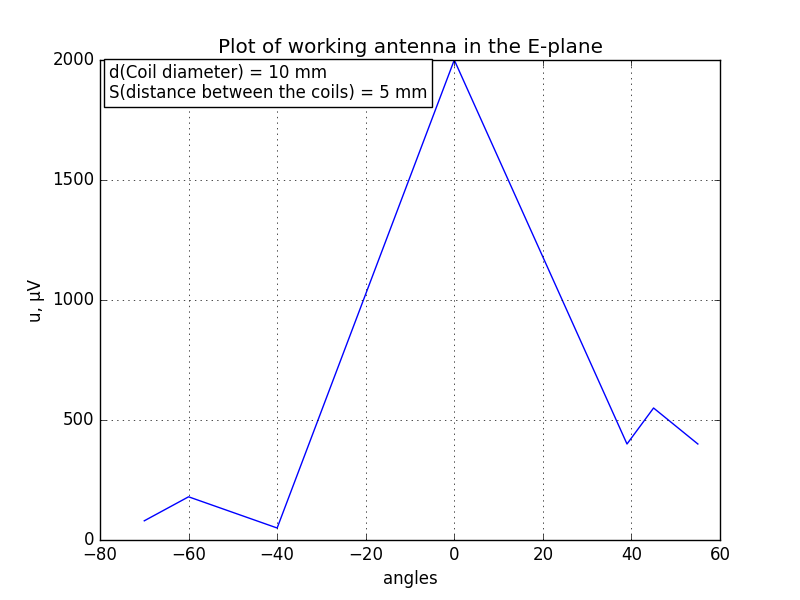
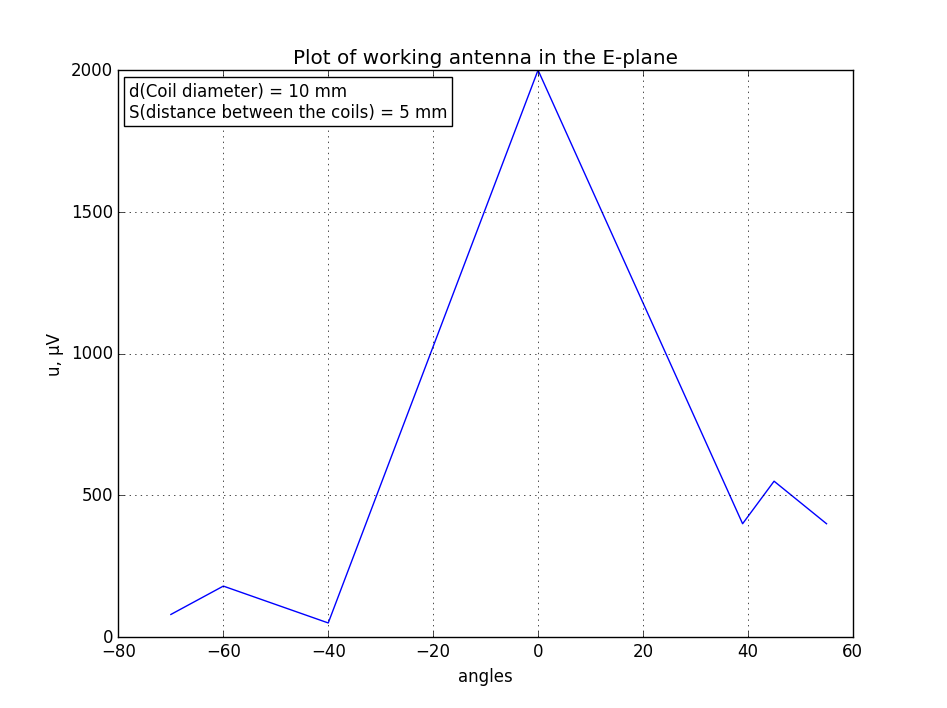
Added plot of working antenna in the H-plane and fixed plot in the E-plane

diff --git a/Helical antennas/work_ant_h.py b/Helical antennas/work_ant_h.py
@@ -1,0 +1,20 @@
+# Plot of working antenna in the H-plane
+# Antenna parameters: 
+# d(Coil diameter) = 10 mm, 
+# S(distance between the coils) = 5 mm
+
+import matplotlib.pyplot as plt
+import numpy as np
+
+angles = np.array([-90, -60, -40, 0, 72, 80, 90])
+u = np.array     ([100, 1000, 150, 2000, 45, 85, 40])
+
+plt.plot(angles, u)
+plt.title("Plot of working antenna in the H-plane")
+plt.text(-96, 1835, s="d(Coil diameter) = 10 mm \nS(distance between the coils) = 5 mm", bbox = {"boxstyle":"square", "facecolor":"w"})
+plt.xlabel('angles')
+plt.ylabel('u, µV')
+
+plt.grid(True)
+plt.savefig("work_ant_h.png")
+plt.show()

diff --git a/Helical antennas/work_ant_e.py b/Helical antennas/work_ant_e.py
@@ -11,7 +11,7 @@ u = np.array     ([80, 180, 50, 2000, 400, 550, 400])
 
 plt.plot(angles, u)
 plt.title("Plot of working antenna in the E-plane")
-plt.text(-78, 1840, s="d(Coil diameter) = 10 mm \nS(distance between the coils) = 5 mm", bbox = {"boxstyle":"square", "facecolor":"w"})
+plt.text(-78, 1835, s="d(Coil diameter) = 10 mm \nS(distance between the coils) = 5 mm", bbox = {"boxstyle":"square", "facecolor":"w"})
 plt.xlabel('angles')
 plt.ylabel('u, µV')
 
